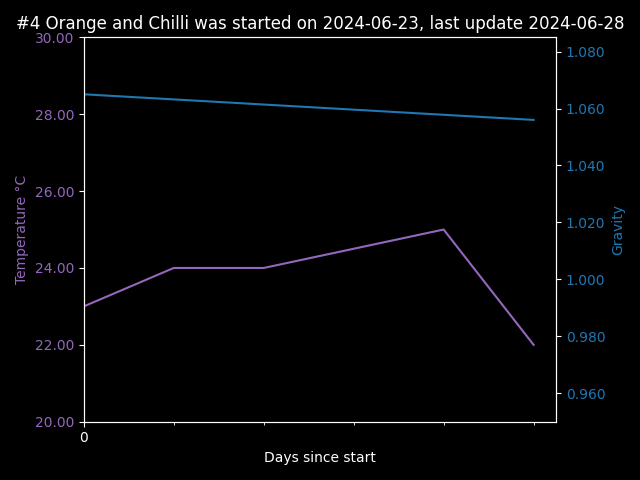
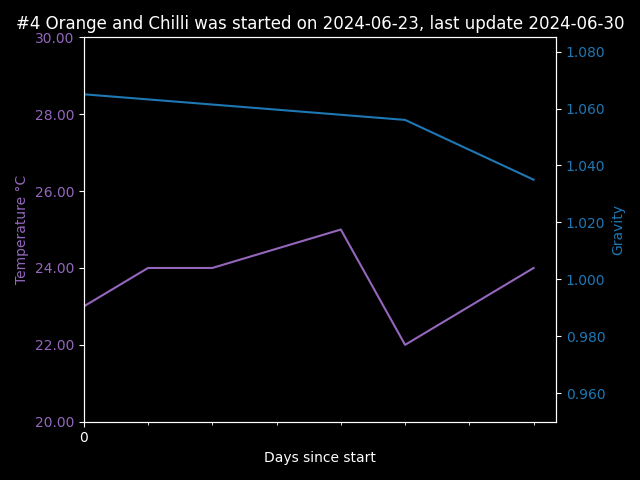
2024-06-30

diff --git a/Recipe List/#3 Mojito.md b/Recipe List/#3 Mojito.md
@@ -7,13 +7,13 @@ Started on: 2024-06-23 | Running Concurrently with: [#4 Orange and Chilli](%234%
 
 Plan & Ingredient List
 
-| Ingredient | Planned<br/>Quantity  | Final<br/>Quantity    |
-|------------|-----------------------|-----------------------|
-| Honey      | 1865g (1211g + 654g)  | g                     |
-| Water      | 3427g                 | 3420g                 |
-| Lime Juice | 3 limes               | 3 limes               | 
-| Lime Zest  | 3 limes               | 3 limes               | 
-| Mint       | 8 mint leaves (small) | 5 mint leaves (small) |
+| Ingredient | Planned<br/>Quantity  | Final<br/>Quantity                                    |
+|------------|-----------------------|-------------------------------------------------------|
+| Honey      | 1865g (1211g + 654g)  | 1211 + 654?g scales didn't want to cooperate over 2kg |
+| Water      | 3427g                 | 3420g                                                 |
+| Lime Juice | 3 limes               | 3 limes                                               | 
+| Lime Zest  | 3 limes               | 3 limes                                               | 
+| Mint       | 8 mint leaves (small) | 5 mint leaves (small)                                 |
 
 - After brewing additions:
     - Mint for some time during secondary if needed
@@ -32,8 +32,8 @@ Yeast Food:
         - Done 2024-06-23
 - feed #2
     - Fermaid O: 3 grams day 3
-      - Done 2024-06-27
-      - caused quite the energetic reaction, had to replace the bubbler 
+        - Done 2024-06-27
+        - caused quite the energetic reaction, had to replace the bubbler
 - feed #3
     - Fermaid O: 3 grams at addition of Honey - at or below 1.050 grav
 
@@ -58,6 +58,7 @@ Yeast Food:
 | 2024-06-25 | 24.00           |         |     |       |
 | 2024-06-27 | 25.00           |         |     |       |
 | 2024-06-28 | 22.00           | 1.052   |     |       |
+| 2024-06-30 | 24.00           | 1.038   |     |       |
 |            |                 |         |     |       |
 |            |                 |         |     |       |
 |            |                 |         |     |       |
@@ -68,16 +69,14 @@ Yeast Food:
 |            |                 |         |     |       |
 |            |                 |         |     |       |
 |            |                 |         |     |       |
-|            |                 |         |     |       |
-
 
 ![#3 Mojito.png](%233%20Mojito.png)
-
 
 notes:
 
 - 2024-06-24 aerated for 3 minutes with a drill attachment
 - 2024-06-25 aerated again, likely for the final time
+- 2024-06-30 added honey #2, 5 mins of swirling got some of it into suspension, need a better plan for next time
 
 ```
 Mead Calculation for 4.75 litres of product

diff --git a/Recipe List/#4 Orange and Chilli.md b/Recipe List/#4 Orange and Chilli.md
@@ -10,7 +10,7 @@ Plan & Ingredient List
 
 | Ingredient       | Planned<br/>Quantity | Final<br/>Quantity |
 |------------------|----------------------|--------------------|
-| Honey            | 1312g (895g + 453g)  | g                  |
+| Honey            | 1312g (895g + 453g)  | 895 + 496g         |
 | Water            | 3788g                | 3780g              | 
 | Orange Juice     | 250g                 | 2 oranges (250g)   |
 | Orange Zest      | 3 Oranges            | 3 Oranges          | 
@@ -29,8 +29,8 @@ Yeast Food:
         - Done 2024-06-23
 - feed #2
     - Fermaid O: 3 grams day 3
-      - Done 2024-06-27
-      - a small reaction, I think this is going to be a slower brew, possibly due to the chilli? 
+        - Done 2024-06-27
+        - a small reaction, I think this is going to be a slower brew, possibly due to the chilli?
 - feed #3
     - Fermaid O: 3 grams at addition of Honey - at or below 1.050 grav
 
@@ -55,7 +55,7 @@ Yeast Food:
 | 2024-06-25 | 24.00           |         |     |       |
 | 2024-06-27 | 25.00           |         |     |       |
 | 2024-06-28 | 22.00           | 1.056   |     |       |
-|            |                 |         |     |       |
+| 2024-06-30 | 24.00           | 1.035   |     |       |
 |            |                 |         |     |       |
 |            |                 |         |     |       |
 |            |                 |         |     |       |
@@ -73,6 +73,7 @@ notes:
 
 - 2024-06-24 aerated for 3 minutes with a drill attachment
 - 2024-06-25 aerated again, likely for the final time
+- 2024-06-30 added honey #2, 5 mins of swirling got some of it into suspension, need a better plan for next time 
 
 ```
 Mead Calculation for 4.75 litres of product
